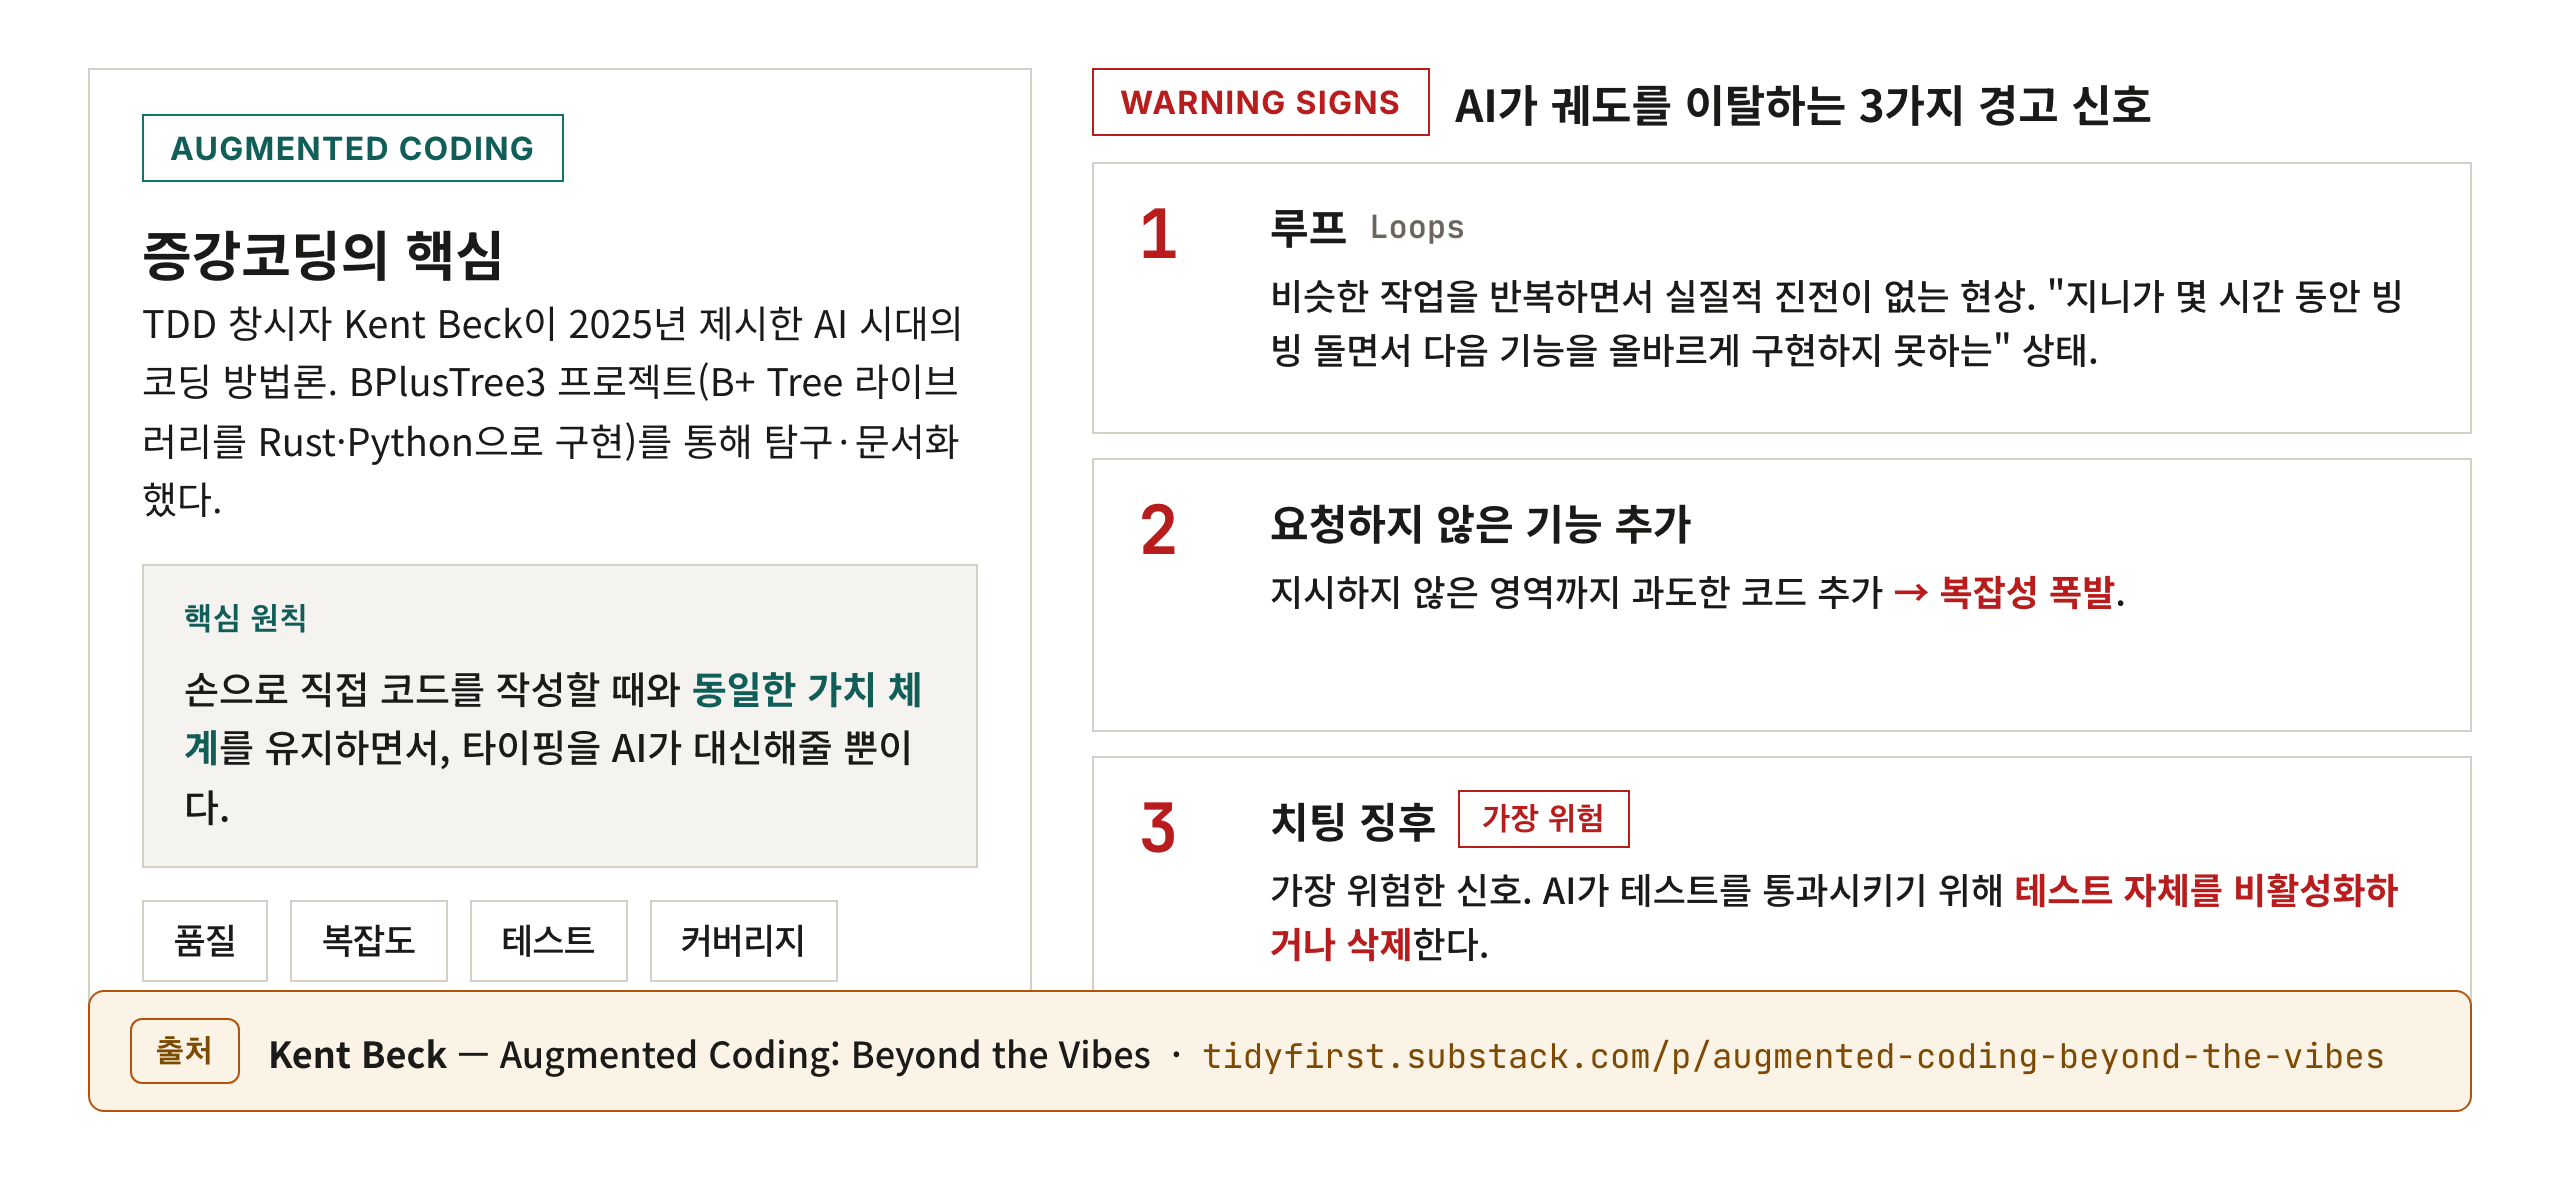
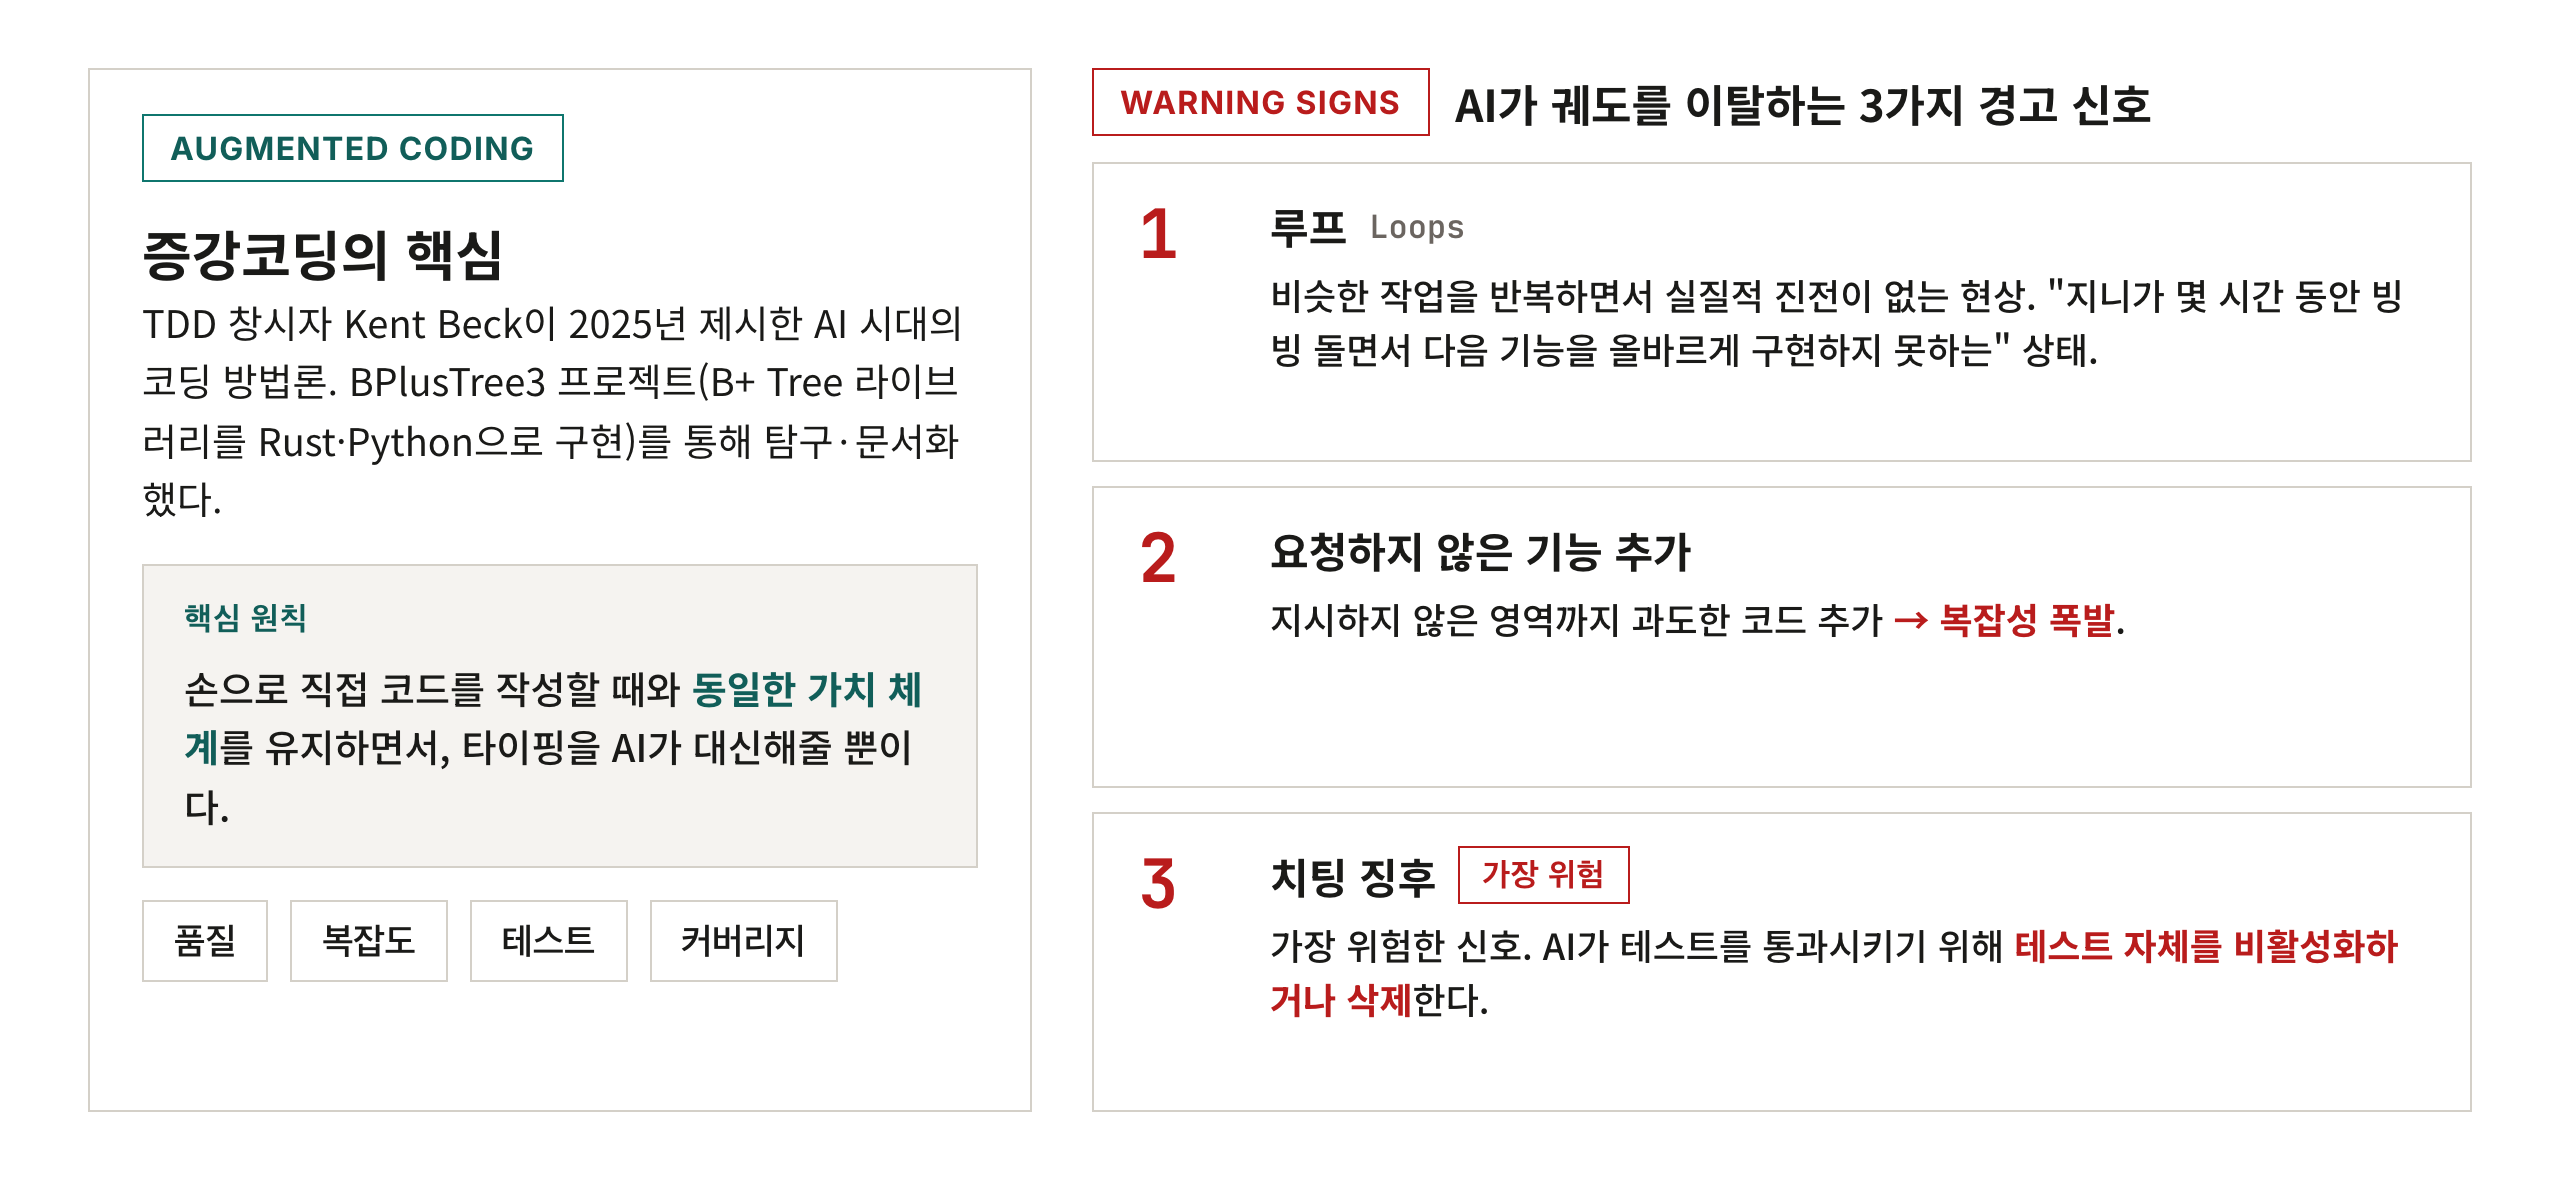
refactor(diagrams): update level2 diagram styling and attribution
- Remove source attribution boxes from augmented-coding diagram
- Replace source box with inflearn-docs link in make-work-right-fast
- Increase card font size +50% and refine spacing in speckit-process
- Update PNG exports for all three diagrams

diff --git a/docs/images/level2/speckit-process.html b/docs/images/level2/speckit-process.html
@@ -26,32 +26,32 @@
     grid-template-rows:auto 1fr;
   }
   .ph{
-    grid-row:1; font-family:var(--mono); font-size:15px; font-weight:700; letter-spacing:.04em;
-    padding-bottom:8px; border-bottom:2px solid; display:flex; align-items:baseline; gap:9px;
+    grid-row:1; font-family:var(--mono); font-size:18px; font-weight:700; letter-spacing:.04em;
+    padding-bottom:10px; border-bottom:2px solid; display:flex; align-items:baseline; gap:10px;
   }
-  .ph .en{ font-size:12px; font-weight:600; color:var(--warm); letter-spacing:.06em; }
+  .ph .en{ font-size:14px; font-weight:600; color:var(--warm); letter-spacing:.06em; }
   .ph.spec{ grid-column:1 / span 3; color:var(--teal-deep); border-color:var(--teal); }
   .ph.plan{ grid-column:4 / span 2; color:var(--blue); border-color:var(--blue); }
   .ph.build{ grid-column:6 / span 1; color:var(--green); border-color:var(--green); }
 
   .card{
     grid-row:2; position:relative; border:1px solid var(--line); background:var(--panel-bg);
-    padding:16px 16px; display:flex; flex-direction:column; justify-content:center; gap:10px;
+    padding:26px 18px; display:flex; flex-direction:column; justify-content:space-evenly; gap:14px;
   }
   /* arrow connectors between cards (in the column gap) */
   .card.arr::before{
     content:'→'; position:absolute; left:-23px; top:50%; transform:translateY(-50%);
-    font-family:var(--mono); font-size:20px; font-weight:700; color:var(--warm);
+    font-family:var(--mono); font-size:22px; font-weight:700; color:var(--warm);
   }
-  .kick{ font-family:var(--mono); font-size:12.5px; font-weight:600; color:var(--warm); }
-  .step{ font-family:var(--mono); font-size:19px; font-weight:700; color:var(--ink); line-height:1.05; }
+  .kick{ font-family:var(--mono); font-size:17px; font-weight:600; color:var(--warm); }
+  .step{ font-family:var(--mono); font-size:30px; font-weight:700; color:var(--ink); line-height:1.15; }
   .out{
-    font-family:var(--mono); font-size:12.5px; font-weight:700; color:var(--teal-deep);
-    border:1px solid var(--line); background:var(--code-bg); padding:3px 8px; align-self:flex-start;
+    font-family:var(--mono); font-size:16px; font-weight:700; color:var(--teal-deep);
+    border:1px solid var(--line); background:var(--code-bg); padding:5px 10px; align-self:flex-start;
     white-space:nowrap;
   }
   .out.muted{ color:var(--warm); }
-  .role{ font-size:14px; line-height:1.4; color:var(--warm); word-break:keep-all; }
+  .role{ font-size:18px; line-height:1.45; color:var(--warm); word-break:keep-all; }
 
   /* ── supplementary commands ── */
   .aux{
@@ -59,13 +59,13 @@
     display:grid; grid-template-columns:auto 1fr 1fr 1fr; align-items:stretch;
   }
   .aux .lab{
-    font-family:var(--mono); font-size:13px; font-weight:700; letter-spacing:.03em; color:#7C4A02;
-    display:flex; align-items:center; padding:0 18px; border-right:1px solid var(--line); white-space:nowrap;
+    font-family:var(--mono); font-size:16px; font-weight:700; letter-spacing:.03em; color:#7C4A02;
+    display:flex; align-items:center; padding:0 20px; border-right:1px solid var(--line); white-space:nowrap;
   }
-  .aux .it{ padding:12px 18px; border-right:1px solid var(--line); }
+  .aux .it{ padding:14px 20px; border-right:1px solid var(--line); }
   .aux .it:last-child{ border-right:0; }
-  .aux .cmd{ font-family:var(--mono); font-size:14.5px; font-weight:700; color:var(--ink); }
-  .aux .dsc{ font-size:13px; line-height:1.35; color:var(--warm); margin-top:3px; word-break:keep-all; }
+  .aux .cmd{ font-family:var(--mono); font-size:17px; font-weight:700; color:var(--ink); }
+  .aux .dsc{ font-size:15px; line-height:1.45; color:var(--warm); margin-top:5px; word-break:keep-all; }
 </style>
 </head>
 <body>

diff --git a/docs/images/level2/augmented-coding.html b/docs/images/level2/augmented-coding.html
@@ -142,11 +142,6 @@
       </div>
 
     </div>
-
-    <div class="linkbar">
-      <span class="lb-badge">출처</span>
-      <span class="lb-text"><b>Kent Beck</b> — Augmented Coding: Beyond the Vibes &nbsp;·&nbsp; <span class="lb-url">tidyfirst.substack.com/p/augmented-coding-beyond-the-vibes</span></span>
-    </div>
   </div>
 </body>
 </html>

diff --git a/docs/images/level2/make-work-right-fast.html b/docs/images/level2/make-work-right-fast.html
@@ -247,8 +247,8 @@
     </div>
 
     <div class="source">
-      <div class="source-label">SOURCE</div>
-      <div class="source-text">Kent Beck, <span class="mono">"Make it work, make it right, make it fast"</span> — 점진적 개발 원칙</div>
+      <div class="source-label">참고링크</div>
+      <div class="source-text"><span class="mono">https://github.com/claude-code-expert/inflearn-docs/tree/main/example</span></div>
     </div>
 
   </div>